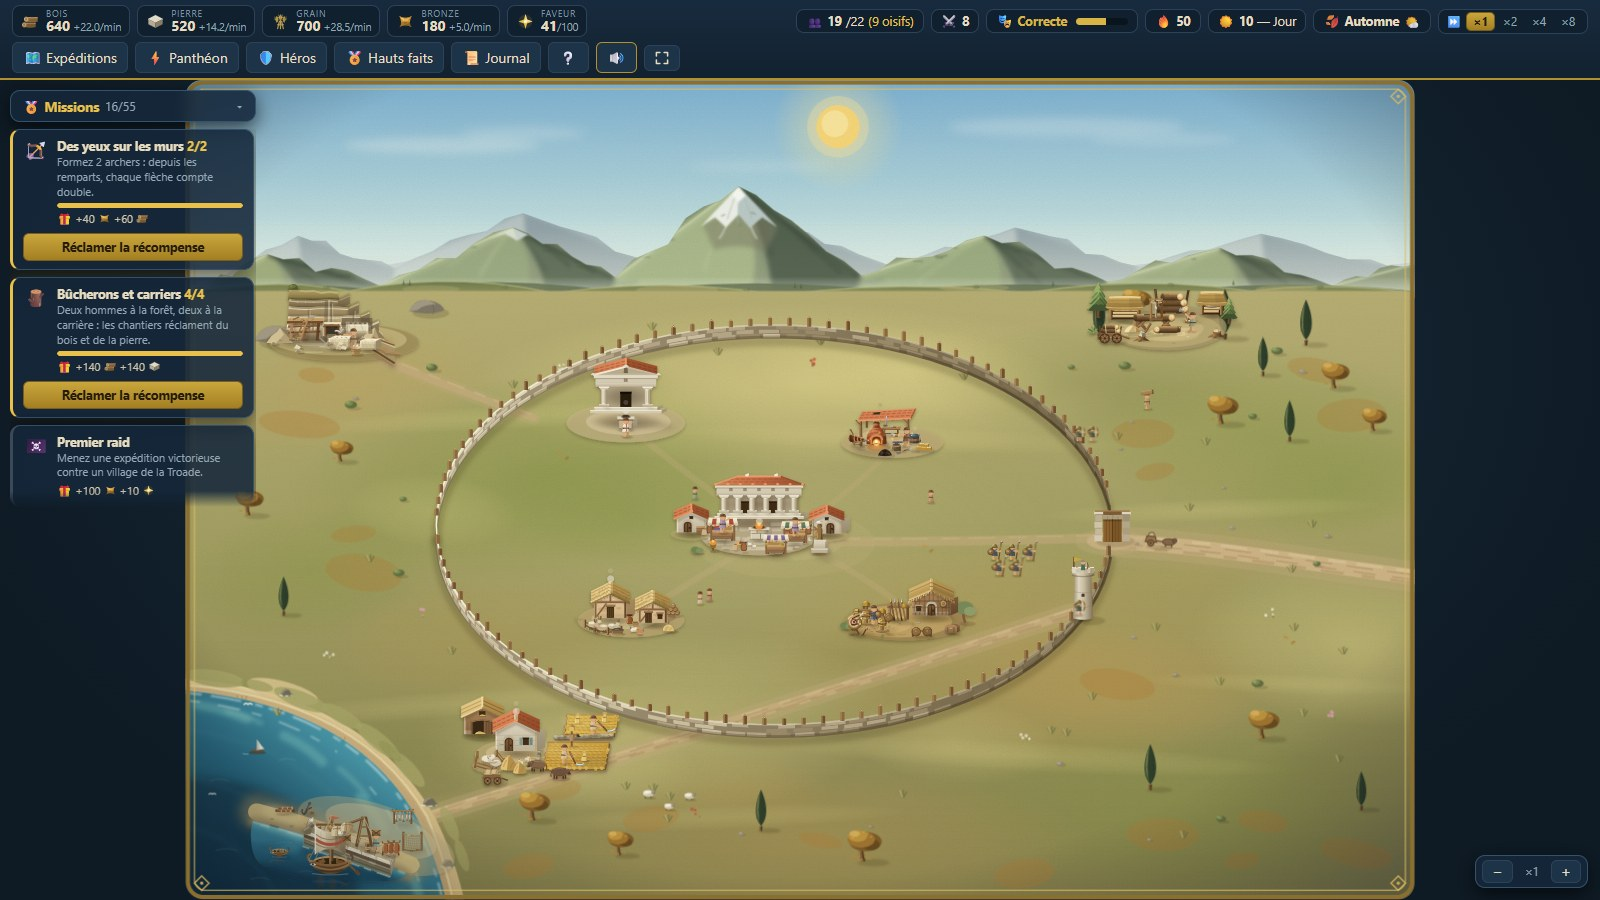
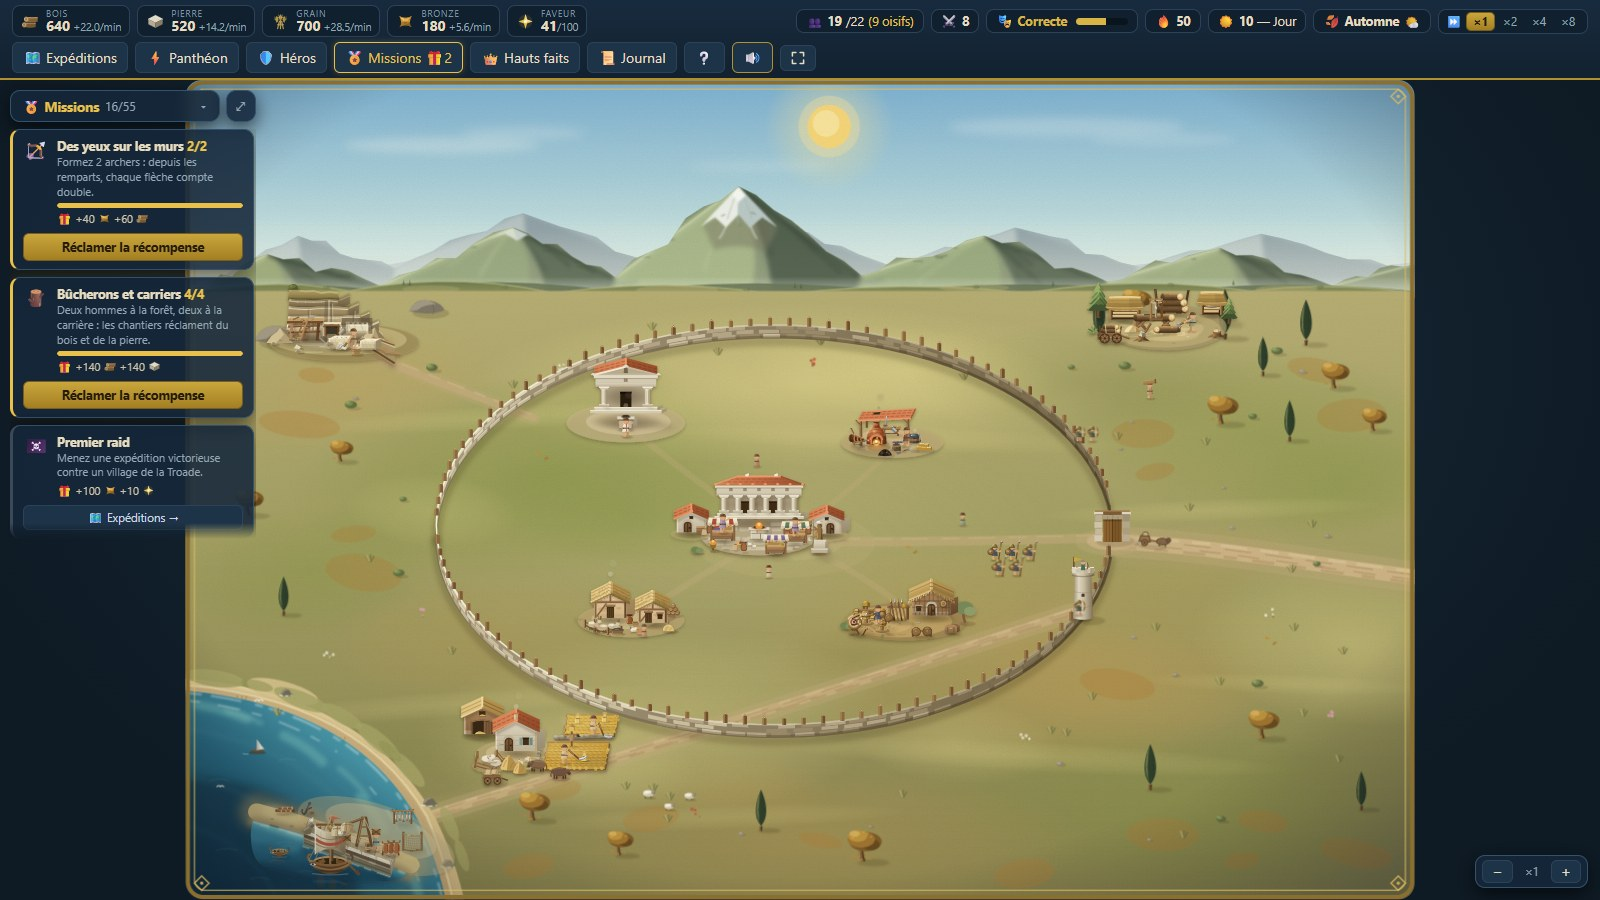
docs : aide du jeu, README et feuille de route à jour — lot 5 livré, treize captures régénérées

diff --git a/src/components/ui/Modales.tsx b/src/components/ui/Modales.tsx
@@ -238,14 +238,34 @@ export function ModaleAide() {
             <b>Molette</b> pour zoomer là où pointe le curseur, <b>glisser</b> pour déplacer la carte,{' '}
             <b>double-clic</b> pour rendre la main à la caméra. Pendant un assaut, elle se rapproche seule du front le
             plus menacé — jusqu’à ce que vous y touchiez. Le bouton 🔊 règle la lyre, les cors et le tambour de siège.
+            Tout menu se referme par sa <b>croix</b>, par <b>Échap</b>, ou d’un clic à côté.
           </p>
         </div>
         <div className="aide-section">
           <h3>🏅 Les missions</h3>
           <p>
-            Le panneau en haut à gauche vous guide : chaque mission accomplie rapporte une <b>récompense</b>{' '}
-            (ressources, faveur, villageois). Commencez par réclamer les provisions du voyage — puis suivez le fil,
-            de la première ferme à la cité de légende.
+            Le suivi en haut à gauche affiche les trois missions ouvertes ; le bouton <b>🏅 Missions</b> du bandeau
+            déroule le fil entier — <b>cinquante-cinq objectifs en cinq actes</b>, du premier toit à la cité de légende.
+            Chacun rapporte une <b>récompense</b> (ressources, faveur, villageois) et laisse une ligne au journal. Si
+            vous ne savez pas où agir, le bouton de la mission (« 👥 Recensement », « 🏛 Agora », « 🗺 Expéditions »…){' '}
+            <b>vous emmène directement à l’écran concerné</b>.
+          </p>
+        </div>
+        <div className="aide-section">
+          <h3>👷 Les métiers</h3>
+          <p>
+            Chaque habitant naît avec un métier — paysan, bûcheron, tailleur de pierre, forgeron, prêtre, docker — et
+            les sept premiers en couvrent un de chaque. <b>Personne ne prend son poste tout seul</b> : c’est à vous
+            d’ouvrir le recensement (👥) et de placer chacun. À son métier il rend pleinement, ailleurs seulement 55 %.
+            Un atelier dont les postes ne sont pas tenus produit au prorata — un ⚠ le signale.
+          </p>
+        </div>
+        <div className="aide-section">
+          <h3>⚓ Le comptoir du port</h3>
+          <p>
+            Le port échange <b>à la valeur</b>, pas au tas : le bronze vaut quatre charretées de bois, la pierre un peu
+            plus qu’une. Les marchands prélèvent une marge — <b>+70 % au petit quai, +15 % au port franc</b> —, donc
+            monter le port est le seul moyen de commercer sans se faire tondre.
           </p>
         </div>
         <div className="aide-section">

diff --git a/README.md b/README.md
@@ -68,6 +68,12 @@ son poste tout seul — pas d'affectation automatique, c'est votre décision à 
 chantier livré. Un atelier laissé vide plante un écriteau rouge sur la carte, pour
 qu'on n'ait pas à ouvrir un panneau pour s'en apercevoir.
 
+Les **sept premiers habitants couvrent un métier de chaque** (avec un second paysan :
+la ferme ouvre deux postes avant les autres), et chaque naissance comble ensuite le
+métier le plus en retard. Le tirage purement aléatoire donnait des hameaux à quatre
+paysans sans un seul prêtre — donc sans faveur, sans recours, et sans que le joueur
+puisse rien y faire.
+
 Le même arbitrage vaut pour l'armée : **un soldat est un villageois en moins** — il
 quitte l'atelier, ne produit plus et mange le double.
 
@@ -150,7 +156,14 @@ premier jour jusqu'au Palladion lui-même, les missions guident la partie en cin
 bâtir, pourvoir les postes, repousser un assaut, réussir un raid trois étoiles, gagner la
 confiance d'un dieu… Chaque réclamation finance l'étape suivante : pas de temps mort.
 
-![Le suivi des missions](docs/missions.jpg)
+Et elles ne sont pas une liste posée à côté du jeu : **chaque mission a un bouton qui
+ouvre l'écran où elle se joue** (« 👥 Recensement », « 🏛 Agora », « 🗺 Expéditions »…),
+le bandeau du haut porte le fil complet acte par acte, et une récompense réclamée laisse
+une ligne au journal du village comme une bataille.
+
+| Le suivi, toujours à l'écran | Le fil complet, cinq actes |
+| --- | --- |
+| ![Le suivi des missions](docs/missions.jpg) | ![Le fil rouge complet](docs/missions-fil.png) |
 
 ### 🎭 L'ambiance du village
 Fêtes, victoires et greniers pleins **exaltent** le village (production accrue). Famine,
@@ -160,11 +173,14 @@ désertent. L'ambiance tient en un mot, toujours lisible dans le bandeau du haut
 
 ### 🎵 Une bande-son entièrement synthétisée
 Pas un octet d'audio téléchargé : tout est fabriqué à la volée en **Web Audio**. Au
-village, une lyre et une flûte de berger se répondent sur une **pentatonique majeure**,
-avec de vrais silences — aucun demi-ton, donc rien d'inquiétant : on est chez soi. Les
-cors de guerre montent à l'alerte, le tambour de siège prend le relais quand la colonne
-touche les murs, et le chant de l'aède salue la victoire. Coupe-son et deux curseurs
-persistés — et rien ne joue avant votre premier geste.
+village, une lyre et une flûte de berger se répondent sur une **pentatonique majeure**
+(aucun demi-ton : il est musicalement impossible d'y sonner inquiétant), soutenues par une
+basse pincée sur les temps forts, une tierce complice sous la mélodie et un bourdon chaud
+qui ne s'interrompt jamais. Deux phrases alternent, l'une posant la question et l'autre y
+répondant — de quoi tenir trente-deux temps avant de se répéter. **C'est une pièce, pas un
+signal.** Les cors de guerre montent à l'alerte, le tambour de siège prend le relais quand
+la colonne touche les murs, et le chant de l'aède salue la victoire. Coupe-son et deux
+curseurs persistés — et rien ne joue avant votre premier geste.
 
 ### 🌙 Le temps continue sans vous — et vous menez la caméra
 Jeu en temps réel avec cycle jour/nuit. Onglet fermé, le village vit : production,
@@ -174,13 +190,21 @@ tout, avec retour automatique en ×1 pendant les batailles. Et la carte se manip
 **molette** pour zoomer là où pointe le curseur, **glisser** pour se déplacer,
 **double-clic** pour rendre la main à la caméra automatique.
 
+Chaque jeton du bandeau du haut — ressources, ambiance, menace, saison, ciel, vitesse du
+temps — ouvre au survol un **encart chiffré** qui dit à quoi il sert, ce qu'il vaut et ce
+qui le fait bouger. Et tout menu se referme de trois façons : sa **croix**, la touche
+**Échap**, ou un clic à côté.
+
 ## 🎮 Systèmes de jeu
 
 - **4 ressources** (bois, pierre, grain, bronze) + faveur divine + population nommée
 - **10 bâtiments** à 4 niveaux, chacun avec son art SVG par niveau ; l'Agora gouverne le
   niveau maximal des autres, 2 chantiers simultanés maximum
 - **Métiers et postes** : chaque habitant naît d'un métier, rend 55 % ailleurs, et
-  n'est jamais affecté automatiquement — un atelier vide ne produit rien et le dit
+  n'est jamais affecté automatiquement — un atelier vide ne produit rien et le dit ;
+  la fournée de départ couvre les six métiers
+- **Comptoir du port** : échange **à la valeur** (le bronze vaut quatre charretées de
+  bois), marge des marchands de +70 % au petit quai à +15 % au port franc
 - **3 unités** (lancier, archer, hoplite) — les archers tirent depuis les remparts tant que
   leur pan de muraille tient
 - **Assauts multi-fronts** : jusqu'à 3 secteurs assaillis, chacun avec ses points de

diff --git a/docs/ROADMAP.md b/docs/ROADMAP.md
@@ -39,6 +39,17 @@ et d'**impact joueur** (★ à ★★★). Les lots livrés sont conservés pour
 | Héros incarnés | Ils arpentent la place du village à leurs couleurs, et descendent se battre au premier rang (stats liées au niveau). Tombés, ils sont **blessés** et non retirés de l'effectif — seul l'arc tue. La ligne de défense est passée d'un point unique à trois rangs, ce qui rend la mêlée lisible. |
 | Pictogrammes | Les icônes peintes gagnent missions, agora, port, héros, panthéon ; la médaille de bronze 🥉 disparaît des 61 textes qui la traînaient encore. |
 
+## ✅ Lot 5 — livré
+
+| Sujet | Ce qui a été fait |
+|---|---|
+| Une sortie dans chaque menu | Châssis commun (`Modale`) pour les huit panneaux : en-tête figé, **croix** qui ne défile jamais, **Échap**, clic à côté. Les modales de décision (dilemme, arc de héros, rapport, fin de règne) restent volontairement sans sortie. |
+| Vitesse du temps | Le seul jeton du bandeau qui portait encore un `title` du navigateur a son encart chiffré comme ses voisins : vitesse courante, durée réelle d'une journée, verrou de bataille, et l'avertissement qui compte (accélérer rapproche l'ennemi). |
+| Missions intégrées au jeu | Panneau du fil rouge complet (55 missions, cinq actes, ouverture sur la première jouable), bouton **🏅 Missions** à pastille dans le bandeau, et surtout un bouton **« y aller »** par mission qui ouvre l'écran concerné — recensement, bâtiment, carte des expéditions, panthéon. Une récompense réclamée laisse une ligne au journal. |
+| Musique du village | Elle était juste — et inaudible : bus à 0,275, notes à 0,075, un temps par seconde et un silence sur trois. Volume porté au même plan que les cors (clé de réglages `v2` pour que tout le monde y passe), tempo à 0,58 s, deux phrases de seize temps qui alternent, basse pincée sur les temps forts, tierce complice sous la mélodie, bourdon renouvelé avant de s'éteindre. |
+| Comptoir d'échange | Deux défauts d'un coup. Le bouton cassait sa ligne (une icône `display: block` posée en flux de texte) et se lisait sur trois niveaux ; corrigé pour toutes les icônes du jeu. Et le troc appliquait un taux unique — 40 de grain valaient 10 de bronze, ce qui rendait la forge inutile : il échange désormais **à la valeur**, avec une marge de +70 % au petit quai à +15 % au port franc, et refuse avant d'encaisser si l'entrepôt est plein. |
+| Répartition des métiers | Les sept premiers habitants couvrent les six métiers (avec un second paysan) ; chaque naissance comble ensuite le métier le plus en retard au regard de ses poids. Le tirage aléatoire donnait couramment quatre paysans et aucun prêtre — donc aucune faveur possible. |
+
 ## ✅ Lot 3 — livré
 
 | Sujet | Ce qui a été fait |
@@ -148,7 +159,7 @@ et peut partir si on l'ignore. Ils sont une puissance, pas un cadeau.
 
 ---
 
-## Ordre conseillé (après les lots 2 et 3)
+## Ordre conseillé (après les lots 2 à 5)
 
 1. **Tests automatisés** : le jeu tient maintenant dans ~15 000 lignes et tout se vérifie encore à la main. Vitest sur l'économie, le combat, la résolution hors-ligne et les hauts faits — c'est le plus rentable désormais.
 2. **Découpage du bundle** : 870 kB en un seul morceau. L'art des bâtiments et les décors d'expédition sont les premiers candidats à l'import dynamique.
@@ -161,6 +172,10 @@ et peut partir si on l'ignore. Ils sont une puissance, pas un cadeau.
 ## 🐞 Dette connue
 
 - Le bundle dépasse 500 kB : aucun découpage dynamique pour l'instant.
-- Aucun test automatisé : chaque lot est vérifié à la compilation et à la main.
+- Aucun test automatisé : chaque lot est vérifié à la compilation, aux captures (qui échouent
+  sur la moindre erreur JS) et à des parcours Playwright joués à la main.
+- Le réglage du son a changé de clé (`palladion-audio-v2`) pour imposer les nouveaux volumes :
+  un joueur qui avait baissé la musique la retrouvera au réglage par défaut.
+- Le comptoir d'échange n'a pas de mémoire : il propose toujours bois → bronze à l'ouverture.
 - Les renforts alliés ne sont pas figurés distinctement sur le champ de bataille (ils portent les couleurs du joueur).
 - La résolution hors-ligne ne connaît pas les secteurs : un assaut nocturne perdu marque forfaitairement la porte comme enfoncée.
